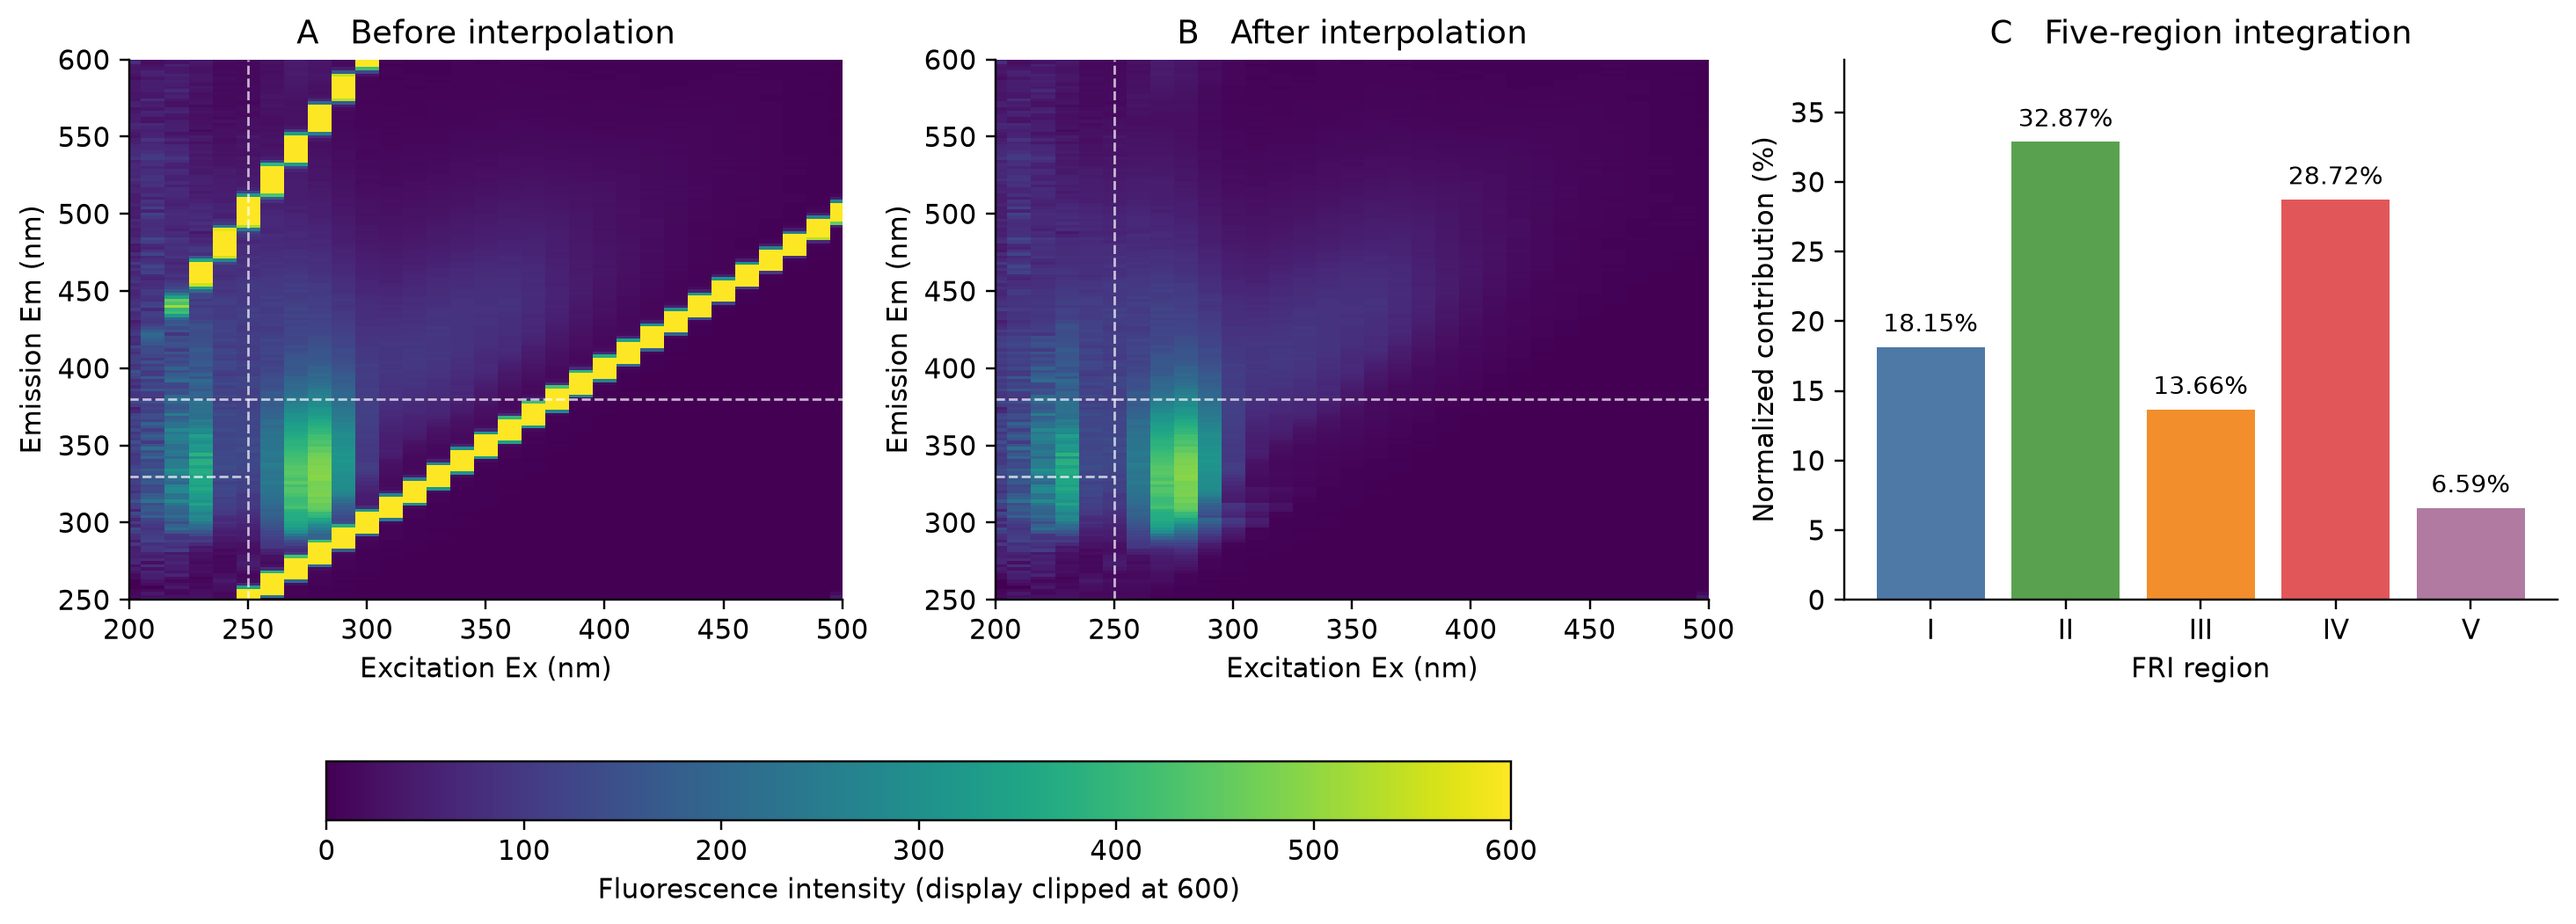
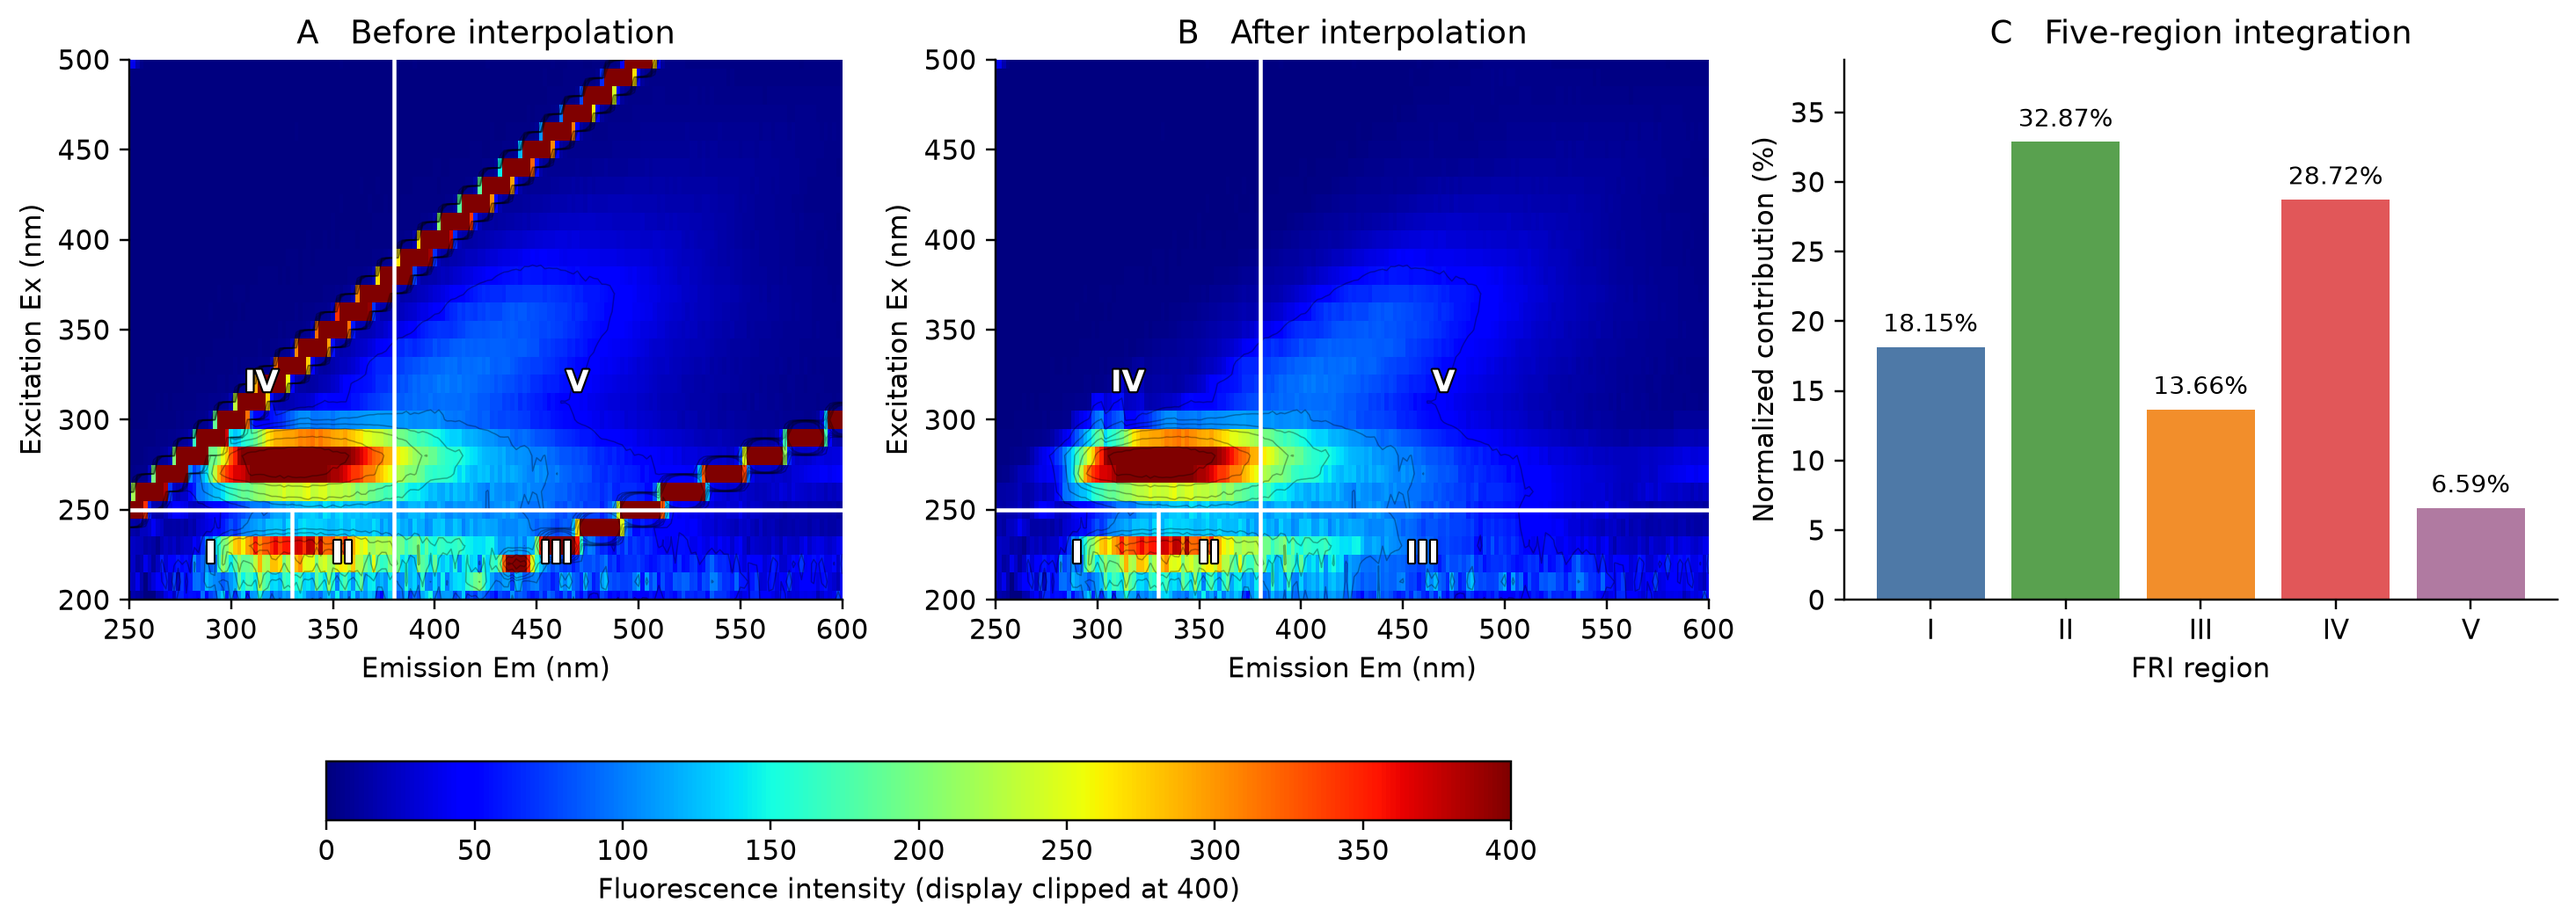
Match conventional EEM axes and rainbow color scale

diff --git a/scripts/plot_example.py b/scripts/plot_example.py
@@ -9,6 +9,7 @@ import matplotlib
 matplotlib.use("Agg")
 import matplotlib.pyplot as plt
 from matplotlib.colors import Normalize
+from matplotlib.patheffects import withStroke
 
 ROOT = Path(__file__).resolve().parents[1]
 sys.path.insert(0, str(ROOT))
@@ -25,17 +26,24 @@ def main():
                          "axes.spines.top": False, "axes.spines.right": False})
     fig = plt.figure(figsize=(13.2, 4.65), layout="constrained")
     axes = [fig.add_subplot(1, 3, i + 1) for i in range(3)]
-    vmax = 600.0
+    vmax = 400.0
     for ax, data, title in zip(axes[:2], [original, processed],
                                ["A   Before interpolation", "B   After interpolation"]):
-        image = ax.pcolormesh(EX, EM, np.maximum(data, 0), shading="nearest",
-                              cmap="viridis", norm=Normalize(vmin=0, vmax=vmax), rasterized=True)
-        ax.axvline(250, color="white", alpha=.7, lw=.9, ls="--")
-        ax.plot([200, 250], [330, 330], color="white", alpha=.7, lw=.9, ls="--")
-        ax.plot([200, 250], [380, 380], color="white", alpha=.7, lw=.9, ls="--")
-        ax.plot([250, 500], [380, 380], color="white", alpha=.7, lw=.9, ls="--")
-        ax.set(xlabel="Excitation Ex (nm)", ylabel="Emission Em (nm)", title=title,
-               xlim=(200, 500), ylim=(250, 600))
+        display = np.maximum(data, 0).T
+        image = ax.pcolormesh(EM, EX, display, shading="nearest",
+                              cmap="jet", norm=Normalize(vmin=0, vmax=vmax), rasterized=True)
+        ax.contour(EM, EX, display, levels=[50, 100, 150, 200, 300, 400],
+                   colors="black", alpha=.32, linewidths=.5)
+        ax.axhline(250, color="white", lw=1.5)
+        ax.axvline(380, color="white", lw=1.5)
+        ax.plot([330, 330], [min(EX), 250], color="white", lw=1.5)
+        for name, x, y in [("I", 290, 225), ("II", 355, 225), ("III", 460, 225),
+                           ("IV", 315, 320), ("V", 470, 320)]:
+            ax.text(x, y, name, color="white", ha="center", va="center",
+                    fontsize=11, fontweight="bold",
+                    path_effects=[withStroke(linewidth=1.4, foreground="black")])
+        ax.set(xlabel="Emission Em (nm)", ylabel="Excitation Ex (nm)", title=title,
+               xlim=(min(EM), max(EM)), ylim=(min(EX), max(EX)))
     colorbar = fig.colorbar(image, ax=axes[:2], location="bottom", shrink=.75, pad=.12)
     colorbar.set_label(f"Fluorescence intensity (display clipped at {vmax:.0f})")
     ax = axes[2]

diff --git a/examples/README.md b/examples/README.md
@@ -19,7 +19,7 @@
 
 ## 图和数值如何读
 
-对比图横轴为激发波长 Ex，纵轴为发射波长 Em。A、B 面板共用 0–600 的显示色标；超出 600 的点仅在**图上**以最高色表示，原始和输出 XLSX 均保留实际数值。虚线标出五区边界。C 面板为面积归一化后的五区占比，不是五区原始积分。
+对比图横轴为发射波长 Em，纵轴为激发波长 Ex。A、B 面板共用 0–400 的蓝—青—绿—黄—红显示色标；超出 400 的点仅在**图上**以最高色表示，原始和输出 XLSX 均保留实际数值。白线标出五区边界。C 面板为面积归一化后的五区占比，不是五区原始积分。
 
 本例有 333 个一阶窗口点、217 个仅属于二阶窗口的点，共 550 个插值点，其中有 38 个 `9999.9` 饱和值。窗口外测量值不修改。程序没有扣空白或识别水拉曼散射，因此处理后的亮区不应自动解释为纯样品荧光。
 

diff --git a/README.md b/README.md
@@ -4,7 +4,7 @@
 
 ## 先看示例
 
-下面使用仓库内的实测 [`黑.xlsx`](examples/input/黑.xlsx)。左右两张 EEM 图使用相同的 0–600 色标。色标上限只影响显示，XLSX 中数值**没有截断**。
+下面使用仓库内的实测 [`黑.xlsx`](examples/input/黑.xlsx)。EEM 图横轴为 Em、纵轴为 Ex，处理前后共用蓝—青—绿—黄—红色带及 0–400 色标。色标上限只影响显示，XLSX 中数值**没有截断**。
 
 ![原始与插值后 EEM 对比及五区积分](examples/black_before_after.png)
 
